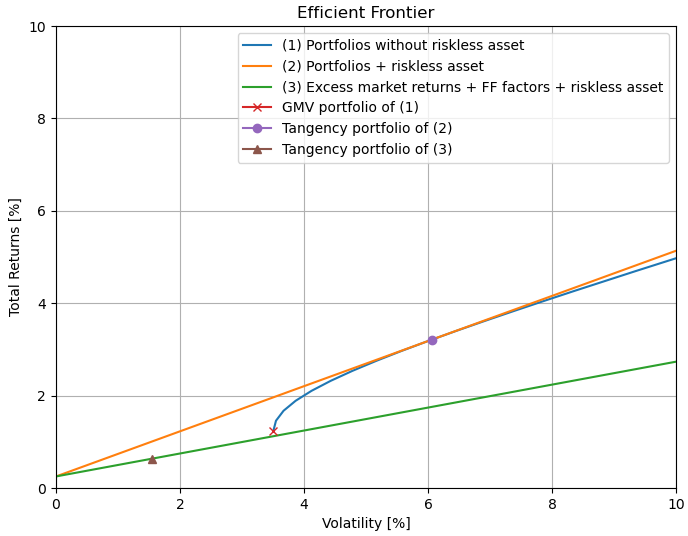
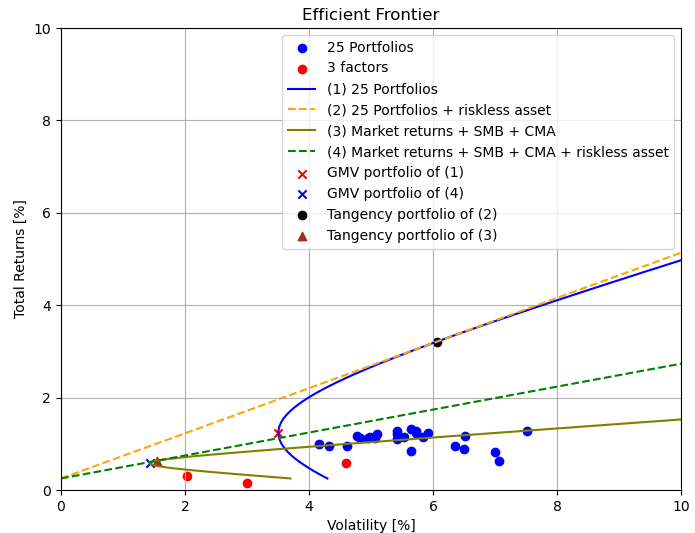
Add files via upload

diff --git a/Code/question_one.py b/Code/question_one.py
@@ -2,24 +2,33 @@ import efficient_frontier as ef
 import utils as ut
 import matplotlib.pyplot as plt
 
+from efficient_frontier import compute_points
+
+
 def plot_frontier(portfolioVolatilities, portfolioReturns, portfolioVolatilitiesRiskless, portfolioReturnsRiskless,
-                  factorVolatilitiesRiskless, factorReturnsRiskless, volatilityTangent, muTangent, volatilityTangentFactor, muTangentFactor):
+                  factorVolatilitiesRiskless, factorReturnsRiskless, meanPortfolios, stdPortfolios, meanFactors, stdFactors,
+                  volatilityTangent, muTangent, volatilityTangentFactor, muTangentFactor, muGMV, volatilityGMV,
+                  factorsReturns, factorsVolatilities, muFactorsGMV, volatilityFactorsGMV):
 
     plt.figure(figsize=(8, 6))
-    plt.plot(100*portfolioVolatilities, 100*portfolioReturns)
-    plt.plot(100*portfolioVolatilitiesRiskless, 100*portfolioReturnsRiskless)
-    plt.plot(100*factorVolatilitiesRiskless, 100*factorReturnsRiskless)
-    plt.plot(100*portfolioVolatilities[0], 100*portfolioReturns[0], marker='x')
-    plt.plot(100*volatilityTangent, 100*muTangent, marker='o')
-    plt.plot(100*volatilityTangentFactor, 100*muTangentFactor, marker='^')
+    plt.scatter(100*stdPortfolios, 100*meanPortfolios, color='b')
+    plt.scatter(100*stdFactors, 100*meanFactors, color='r')
+    plt.plot(100*portfolioVolatilities, 100*portfolioReturns,'b')
+    plt.plot(100*portfolioVolatilitiesRiskless, 100*portfolioReturnsRiskless,color='orange',linestyle='--')
+    plt.plot(100 * factorsVolatilities, 100 * factorsReturns, color='olive')
+    plt.plot(100*factorVolatilitiesRiskless, 100*factorReturnsRiskless,'g--')
+    plt.scatter(100*volatilityGMV, 100*muGMV, color='r', marker='x')
+    plt.scatter(100 * volatilityFactorsGMV, 100 * muFactorsGMV, color='b', marker='x')
+    plt.scatter(100*volatilityTangent, 100*muTangent, color='k', marker='o')
+    plt.scatter(100*volatilityTangentFactor, 100*muTangentFactor, color='brown', marker='^')
     plt.title('Efficient Frontier')
     plt.xlabel('Volatility [%]')
     plt.ylabel('Total Returns [%]')
     plt.xlim([0, 10])
     plt.ylim([0, 10])
-    plt.legend(['(1) Portfolios without riskless asset', '(2) Portfolios + riskless asset',
-                '(3) Excess market returns + FF factors + riskless asset',
-                'GMV portfolio of (1)', 'Tangency portfolio of (2)', 'Tangency portfolio of (3)'])
+    plt.legend(['25 Portfolios','3 factors','(1) 25 Portfolios', '(2) 25 Portfolios + riskless asset',
+                '(3) Market returns + SMB + CMA', '(4) Market returns + SMB + CMA + riskless asset',
+                'GMV portfolio of (1)', 'GMV portfolio of (4)', 'Tangency portfolio of (2)', 'Tangency portfolio of (3)'])
     plt.grid(True)
     plt.show()
     plt.savefig('Efficient frontier.png')
@@ -30,22 +39,32 @@ def main(plot = True):
     factors = ut.open_file('F-F_Research_Data_5_Factors_2x3.csv', percentage=True)
     factors.drop(columns=['HML','RMW','RF'], inplace=True)
 
+    # Individual assets, factors
+    meanPortfolios, stdPortfolios = compute_points(returns)
+    meanFactors, stdFactors = compute_points(factors)
+
     # Frontier 1 (without riskless)
-    portfolioReturns, portfolioVolatilities = ef.compute_efficient_frontier(returns, riskless=False, excess=False)
+    portfolioReturns, portfolioVolatilities, muGMV, volatilityGMV = ef.compute_efficient_frontier(returns, riskless=False, excess=False)
 
     # Frontier 2 (with riskless)
     (portfolioReturnsRiskless, portfolioVolatilitiesRiskless,
      muTangent, volatilityTangent) = ef.compute_efficient_frontier(returns, riskless=True, excess=False)
 
-    # Frontier 3 (Factors)
+    # Frontier 3 (Factors with riskless)
     (factorReturnsRiskless, factorVolatilitiesRiskless,
      muTangentFactor, volatilityTangentFactor) = ef.compute_efficient_frontier(factors, riskless=True, excess=True)
+
+    # Frontier 4 (Factor without riskless)
+    factorsReturns, factorsVolatilities, muFactorsGMV, volatilityFactorsGMV = ef.compute_efficient_frontier(factors,
+                                                                                                  riskless=False,
+                                                                                                  excess=True)
 
     # Plot frontier
     if plot:
         plot_frontier(portfolioVolatilities, portfolioReturns, portfolioVolatilitiesRiskless, portfolioReturnsRiskless,
-                          factorVolatilitiesRiskless, factorReturnsRiskless, volatilityTangent, muTangent,
-                          volatilityTangentFactor, muTangentFactor)
+                          factorVolatilitiesRiskless, factorReturnsRiskless, meanPortfolios, stdPortfolios, meanFactors, stdFactors,
+                      volatilityTangent, muTangent, volatilityTangentFactor, muTangentFactor, muGMV, volatilityGMV,
+                      factorsReturns, factorsVolatilities, muFactorsGMV, volatilityFactorsGMV)
 
     # Tangency portfolios
     print(21 * '-')
@@ -66,5 +85,4 @@ def main(plot = True):
 
 if __name__ == '__main__':
     plt.close('all')
-
-    main(plot=False)
+    main(plot=True)

diff --git a/Code/efficient_frontier.py b/Code/efficient_frontier.py
@@ -28,7 +28,7 @@ def compute_efficient_frontier(returns, riskless=False, excess=False, riskFreeRa
         weightsTangent = (inverseSigma @ muReturns)/B
         muTangent = weightsTangent.T @ muReturns + riskFreeRate
         volatilityTangent = np.sqrt(weightsTangent.T @ sigmaReturns @ weightsTangent)
-        muTargetGrid = np.linspace(0, np.max(returns), 200)
+        muTargetGrid = np.linspace(0, np.max(returns), 1000)
         for r in muTargetGrid:
             portfolioReturn, portfolioVolatility = compute_portfolio(r, muReturns,
                                                                       riskless, A, B, C,
@@ -38,7 +38,9 @@ def compute_efficient_frontier(returns, riskless=False, excess=False, riskFreeRa
             portfolioVolatilities.append(portfolioVolatility)
         return np.array(portfolioReturns), np.array(portfolioVolatilities), muTangent, volatilityTangent
     else:
-        muTargetGrid = np.linspace(B/C, np.max(returns), 200)
+        muTargetGrid = np.linspace(0, np.max(returns), 1000)
+        muGMV = B/C + riskFreeRate
+        volatilityGMV = np.sqrt(1/C)
         for r in muTargetGrid:
             portfolioReturn, portfolioVolatility = compute_portfolio(r, muReturns,
                                                                       riskless, A, B, C,
@@ -47,7 +49,7 @@ def compute_efficient_frontier(returns, riskless=False, excess=False, riskFreeRa
             portfolioReturns.append(portfolioReturn + riskFreeRate)
             portfolioVolatilities.append(portfolioVolatility)
 
-        return np.array(portfolioReturns), np.array(portfolioVolatilities)
+        return np.array(portfolioReturns), np.array(portfolioVolatilities), muGMV, volatilityGMV
 
 def compute_portfolio(muTarget, mu, riskless, A, B, C, sigmaReturns, inverseSigma, iota, riskFreeRate):
     """
@@ -90,3 +92,8 @@ def compute_portfolio(muTarget, mu, riskless, A, B, C, sigmaReturns, inverseSigm
     portfolioVolatility = np.sqrt(portfolioVariance)
 
     return portfolioReturns, portfolioVolatility
+
+def compute_points(returns):
+    meanReturns = returns.mean(axis=0).T.to_numpy()
+    stdReturns = np.sqrt(returns.var())
+    return meanReturns, stdReturns
